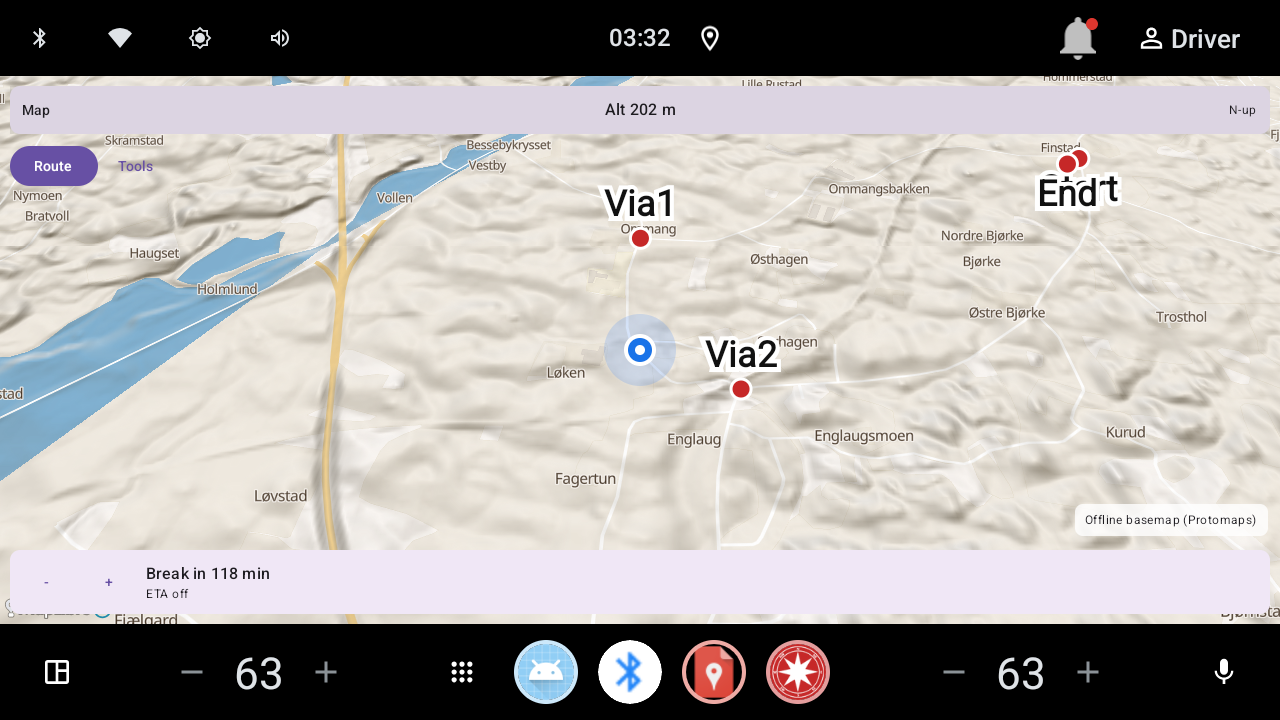
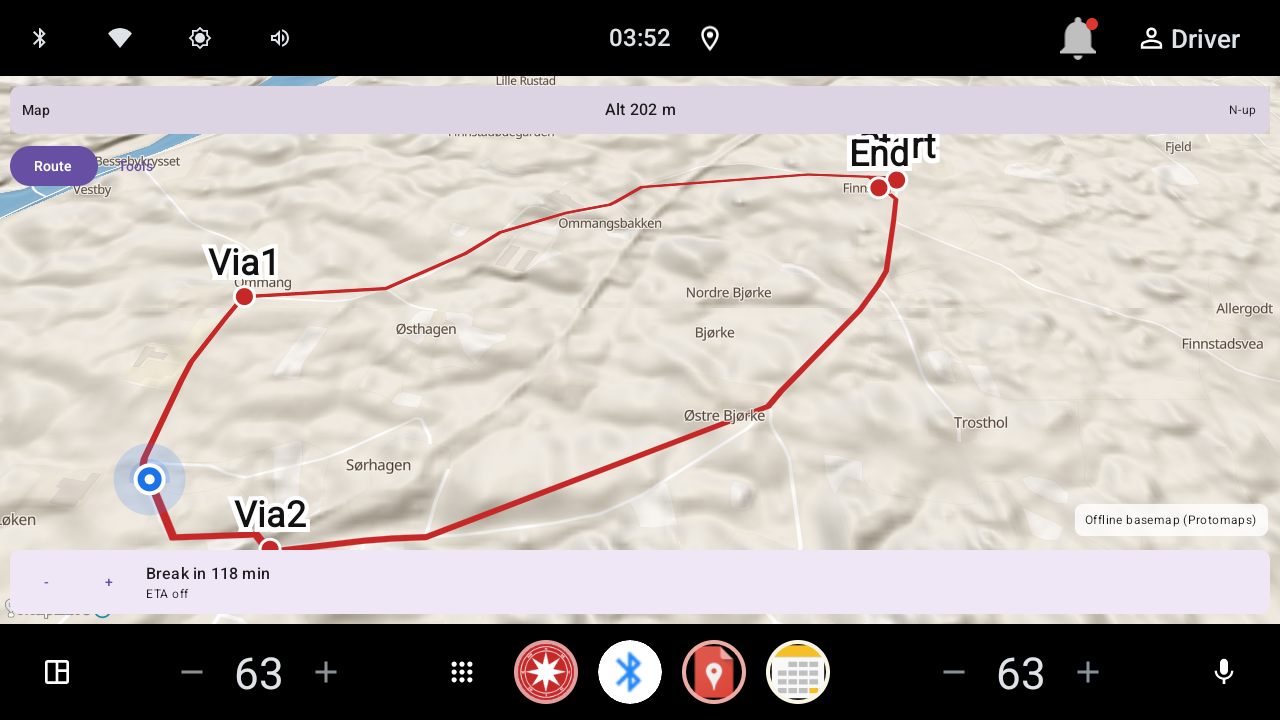
Keep the corridor polyline above hillshade after 3D style switches.
Re-apply route overlays when attaching Mapterhorn terrain and stack the line above navi-hills so 45° 3D screenshots show the planned loop, not only waypoints.

diff --git a/app/src/main/java/no/navi/app/MainActivity.kt b/app/src/main/java/no/navi/app/MainActivity.kt
@@ -3069,6 +3069,11 @@ private fun CorridorMapView(
         }
         if (applyGen != styleApplyGen.get()) return
         NaviMapTestHooks.lastTerrainAttached = terrainOk
+        // setStyle / offline 3D JSON wipe GeoJSON overlays — re-apply immediately
+        // so the corridor is not missing while layerEpoch catches up.
+        applyRouteToStyle(style, stateRef.get())
+        applyTracksToStyle(style, stateRef.get().tracks, mapView.context)
+        ensureRouteAboveHillshade(style)
         applyCameraTilt(map)
         styleReady.value = true
         NaviMapTestHooks.styleReady = true
@@ -3427,6 +3432,7 @@ private fun CorridorMapView(
                 }
                 applyRouteToStyle(style, latest)
                 applyTracksToStyle(style, latest.tracks, mapView.context)
+                ensureRouteAboveHillshade(style)
                 map.triggerRepaint()
                 onLayerCount(style.layers.size)
                 refreshTrackOverlay(map)
@@ -3654,6 +3660,18 @@ private fun CorridorMapView(
     }
 }
 
+private fun ensureRouteAboveHillshade(style: Style) {
+    val hillsId = MapterhornTerrain.HILLS_LAYER_ID
+    if (style.getLayer(hillsId) == null) return
+    for (id in listOf("route-line", "waypoints-dots", "waypoints-layer", "gps-accuracy", "gps-dot")) {
+        val layer = style.getLayer(id) ?: continue
+        runCatching {
+            style.removeLayer(layer)
+            style.addLayerAbove(layer, hillsId)
+        }
+    }
+}
+
 private fun applyRouteToStyle(style: Style, state: MapRouteState) {
     if (state.polyline.isNotBlank()) {
         val pts = parsePolyline(state.polyline).map { Point.fromLngLat(it.longitude, it.latitude) }
@@ -3785,6 +3803,7 @@ private fun applyRouteToStyle(style: Style, state: MapRouteState) {
         if (style.getLayer("gps-accuracy") != null) style.removeLayer("gps-accuracy")
         if (style.getSource("gps-src") != null) style.removeSource("gps-src")
     }
+    ensureRouteAboveHillshade(style)
 }
 
 private fun applyTracksToStyle(

diff --git a/app/src/androidTest/java/no/navi/app/SimBannerBreakTiltInstrumentedTest.kt b/app/src/androidTest/java/no/navi/app/SimBannerBreakTiltInstrumentedTest.kt
@@ -411,8 +411,29 @@ class SimBannerBreakTiltInstrumentedTest {
             NaviMapTestHooks.lastTerrainAttached,
         )
         assertEquals(45.0, NaviMapTestHooks.lastCameraPitch, 1.5)
+        // Style switch can race GeoJSON overlays — re-assert the corridor and wait
+        // for layers to settle so the red route line is above hillshade.
+        assertTrue(
+            "polyline must still be planned before 3D tilt shot",
+            NaviMapTestHooks.lastRoutePolylineChars > 50,
+        )
+        NaviMapTestHooks.pendingRoute = planned
+        NaviMapTestHooks.requestCameraTiltDeg = 45.0
+        Thread.sleep(3_500)
         dismissPermissionIfPresent()
         saveShot(shotDir, "tilt45_3d_on.png")
+        // Host pull target used by docs/README.
+        val pfdTilt = InstrumentationRegistry.getInstrumentation().uiAutomation
+            .executeShellCommand(
+                "su 0 cp ${File(shotDir, "tilt45_3d_on.png").absolutePath} " +
+                    "/data/local/tmp/tilt45_3d_on.png",
+            )
+        java.io.FileInputStream(pfdTilt.fileDescriptor).use { input ->
+            val buf = ByteArray(4096)
+            while (input.read(buf) >= 0) {
+            }
+        }
+        pfdTilt.close()
 
         NaviMapTestHooks.requestCameraTiltDeg = 0.0
         NaviMapTestHooks.requestOptIn3d = false
